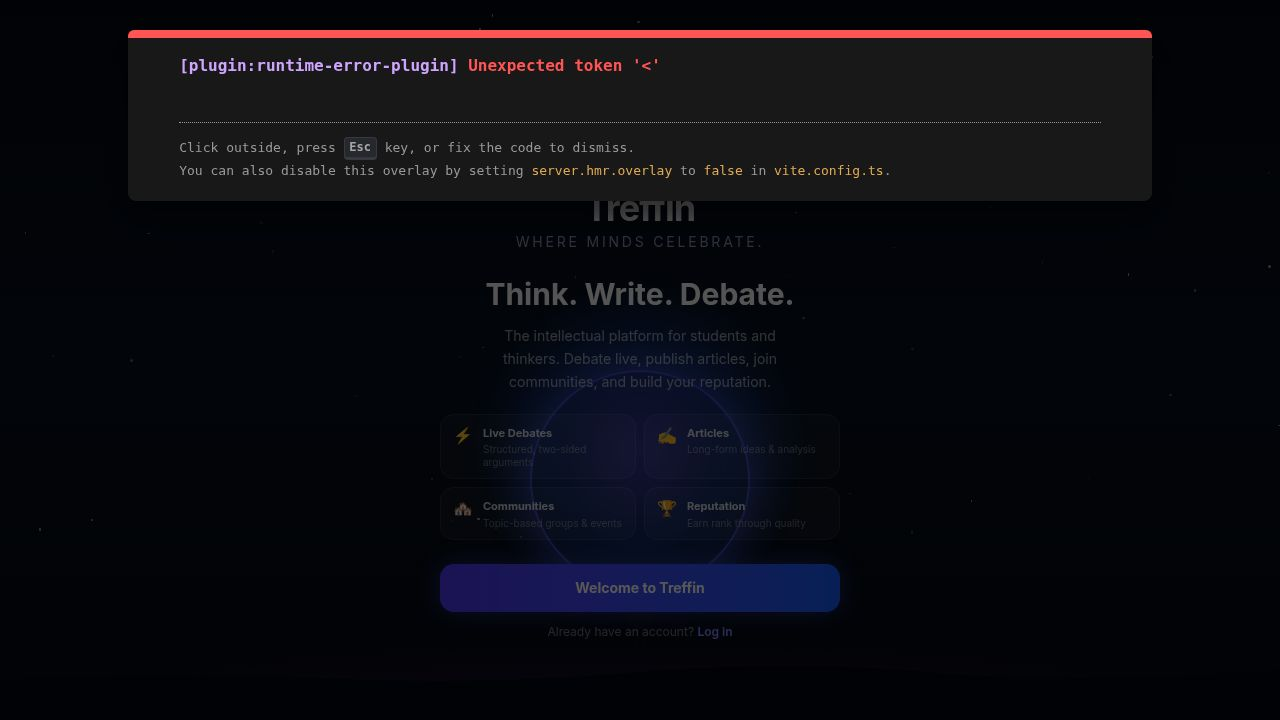
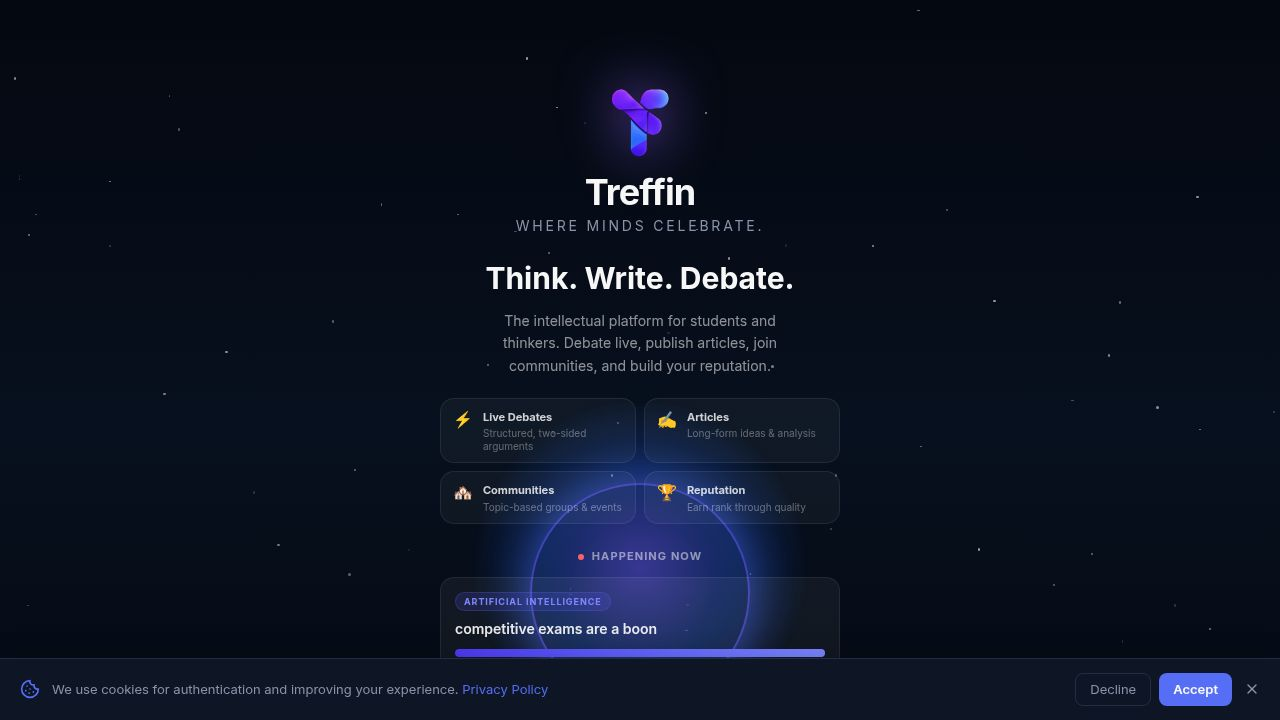
Improve user authentication and comment attribution for debates
Enhance debate functionality by ensuring proper user authentication for likes and comments, correctly attributing comments with user IDs, and sending necessary authorization tokens in API requests.

Replit-Commit-Author: Agent
Replit-Commit-Session-Id: 17e3f4f3-5f1d-4b24-b932-2036369d2b78
Replit-Commit-Checkpoint-Type: full_checkpoint
Replit-Commit-Event-Id: d589e3f4-b145-4d4e-91c8-f6fba81fd9ff
Replit-Commit-Screenshot-Url: https://storage.googleapis.com/screenshot-production-us-central1/828d1cbd-7932-4601-968f-be3a28098460/17e3f4f3-5f1d-4b24-b932-2036369d2b78/Z3APDBr
Replit-Helium-Checkpoint-Created: true

Changed region(s): [[0.0, 0.3667, 1.0, 1.0], [0.0938, 0.0306, 0.9062, 0.3361]]

diff --git a/artifacts/treffin/src/pages/debate-room.tsx b/artifacts/treffin/src/pages/debate-room.tsx
@@ -11,7 +11,7 @@ import { useGetDebateAgreements, getGetDebateAgreementsQueryKey, useCreateDebate
 import type { DebateAgreement } from "@workspace/api-client-react";
 import { useQueryClient, useQuery } from "@tanstack/react-query";
 import { useToast } from "@/hooks/use-toast";
-import { useUser } from "@clerk/react";
+import { useUser, useAuth, useClerk } from "@clerk/react";
 import { useAppContext } from "@/context/app-context";
 import { ConfettiCelebration } from "@/components/confetti-celebration";
 
@@ -70,6 +70,8 @@ function ArgumentCard({ arg, side, isOxford, round }: { arg: Arg; side: "support
   const [isPostingReply, setIsPostingReply] = useState(false);
   const { toast } = useToast();
   const { user } = useUser();
+  const { getToken, isSignedIn } = useAuth();
+  const { openSignIn } = useClerk();
   const queryClient = useQueryClient();
   const qs = qualityScore({ ...arg, likes: likeCount });
   const likeCommentMutation = useLikeDebateComment();
@@ -89,6 +91,11 @@ function ArgumentCard({ arg, side, isOxford, round }: { arg: Arg; side: "support
 
   const handleLike = async () => {
     if (!arg.debateId) return;
+    if (!isSignedIn) {
+      toast({ title: "Sign in required", description: "Please sign in to like arguments.", variant: "destructive" });
+      openSignIn();
+      return;
+    }
     const prevLiked = liked;
     const prevCount = likeCount;
     const nowLiked = !liked;
@@ -99,22 +106,36 @@ function ArgumentCard({ arg, side, isOxford, round }: { arg: Arg; side: "support
       const data = await likeCommentMutation.mutateAsync({ id: arg.debateId, commentId: arg.id });
       setLikeCount(data.likes);
       setLiked(data.liked);
-    } catch {
+    } catch (err: any) {
       // Rollback on failure
       setLiked(prevLiked);
       setLikeCount(prevCount);
-      toast({ title: "Could not save like", variant: "destructive" });
+      if (err?.status === 401) {
+        toast({ title: "Sign in required", description: "Please sign in to like arguments.", variant: "destructive" });
+        openSignIn();
+      } else {
+        toast({ title: "Could not save like", variant: "destructive" });
+      }
     }
   };
 
   const handlePostReply = async () => {
     if (!replyInput.trim() || isPostingReply || !arg.debateId) return;
+    if (!isSignedIn) {
+      toast({ title: "Sign in required", description: "Please sign in to post a reply.", variant: "destructive" });
+      openSignIn();
+      return;
+    }
     setIsPostingReply(true);
     try {
+      const token = await getToken();
       const authorName = user?.fullName || user?.firstName || "Anonymous";
       const res = await fetch(`/api/debates/${arg.debateId}/comments`, {
         method: "POST",
-        headers: { "Content-Type": "application/json" },
+        headers: {
+          "Content-Type": "application/json",
+          ...(token ? { Authorization: `Bearer ${token}` } : {}),
+        },
         body: JSON.stringify({
           content: replyInput.trim(),
           authorName,
@@ -280,6 +301,9 @@ export default function DebateRoom() {
   const debateId = Number(id);
   const { user } = useUser();
   const { triggerRep } = useAppContext();
+
+  const { getToken, isSignedIn } = useAuth();
+  const { openSignIn } = useClerk();
 
   const { data: debate, isLoading } = useGetDebate(debateId, {
     query: { enabled: !!debateId, queryKey: getGetDebateQueryKey(debateId), refetchInterval: 15_000 },
@@ -454,6 +478,11 @@ export default function DebateRoom() {
 
   const handlePostArgument = async () => {
     if (!newArg.trim() || isPostingArg) return;
+    if (!isSignedIn) {
+      toast({ title: "Sign in required", description: "Please sign in to post an argument.", variant: "destructive" });
+      openSignIn();
+      return;
+    }
     const wc = newArg.trim().split(/\s+/).filter(Boolean).length;
     if (wc < 30) {
       toast({ title: "Argument too short", description: "Please write at least 30 words to keep debates substantive.", variant: "destructive" }); return;
@@ -467,9 +496,13 @@ export default function DebateRoom() {
     setIsPostingArg(true);
     try {
       const side = argSide;
+      const token = await getToken();
       const res = await fetch(`/api/debates/${debateId}/comments`, {
         method: "POST",
-        headers: { "Content-Type": "application/json" },
+        headers: {
+          "Content-Type": "application/json",
+          ...(token ? { Authorization: `Bearer ${token}` } : {}),
+        },
         body: JSON.stringify({ content: newArg.trim(), side, sources: sources.length > 0 ? JSON.stringify(sources) : undefined, authorName: user?.fullName || user?.firstName || "Anonymous", argType: isOxford && oxfordRound === "Closing Argument" ? "closing" : undefined }),
       });
       if (!res.ok) {

diff --git a/artifacts/api-server/src/routes/debates.ts b/artifacts/api-server/src/routes/debates.ts
@@ -511,6 +511,21 @@ router.post("/debates/:id/comments", async (req, res) => {
     // Personal attack check (non-blocking warning)
     const personalAttackWarning = detectPersonalAttack(content);
 
+    // Resolve the author's DB record from their Clerk ID so authorId is always correct
+    let resolvedAuthorId = authorId ?? 0;
+    let resolvedAuthorName = authorName;
+    if (actorClerkId) {
+      const [dbUser] = await db
+        .select({ id: usersTable.id, name: usersTable.name })
+        .from(usersTable)
+        .where(eq(usersTable.clerkId, actorClerkId))
+        .limit(1);
+      if (dbUser) {
+        resolvedAuthorId = dbUser.id;
+        resolvedAuthorName = dbUser.name ?? authorName;
+      }
+    }
+
     // For replies, look up the parent's side so the reply lives in the same column
     let resolvedSide = side ?? null;
     if (isReply) {
@@ -529,8 +544,8 @@ router.post("/debates/:id/comments", async (req, res) => {
       .insert(commentsTable)
       .values({
         debateId,
-        authorId: authorId ?? 0,
-        authorName,
+        authorId: resolvedAuthorId,
+        authorName: resolvedAuthorName,
         content,
         side: resolvedSide,
         sources: sources ?? null,
@@ -553,12 +568,12 @@ router.post("/debates/:id/comments", async (req, res) => {
     if (actorClerkId && debate.creatorUserId && debate.creatorUserId !== actorClerkId) {
       try {
         await createNotification({
-          targetDbUserId: 0,
+          targetDbUserId: resolvedAuthorId,
           actorClerkId,
-          actorDisplayName: authorName,
+          actorDisplayName: resolvedAuthorName,
           type: "reply",
           title: "New comment on your debate",
-          body: `${authorName} commented on "${debate.title.substring(0, 50)}${debate.title.length > 50 ? "…" : ""}"`,
+          body: `${resolvedAuthorName} commented on "${debate.title.substring(0, 50)}${debate.title.length > 50 ? "…" : ""}"`,
           targetClerkIdOverride: debate.creatorUserId,
           batchKey: `reply:debate:${debateId}:${debate.creatorUserId}`,
         }, req.log);